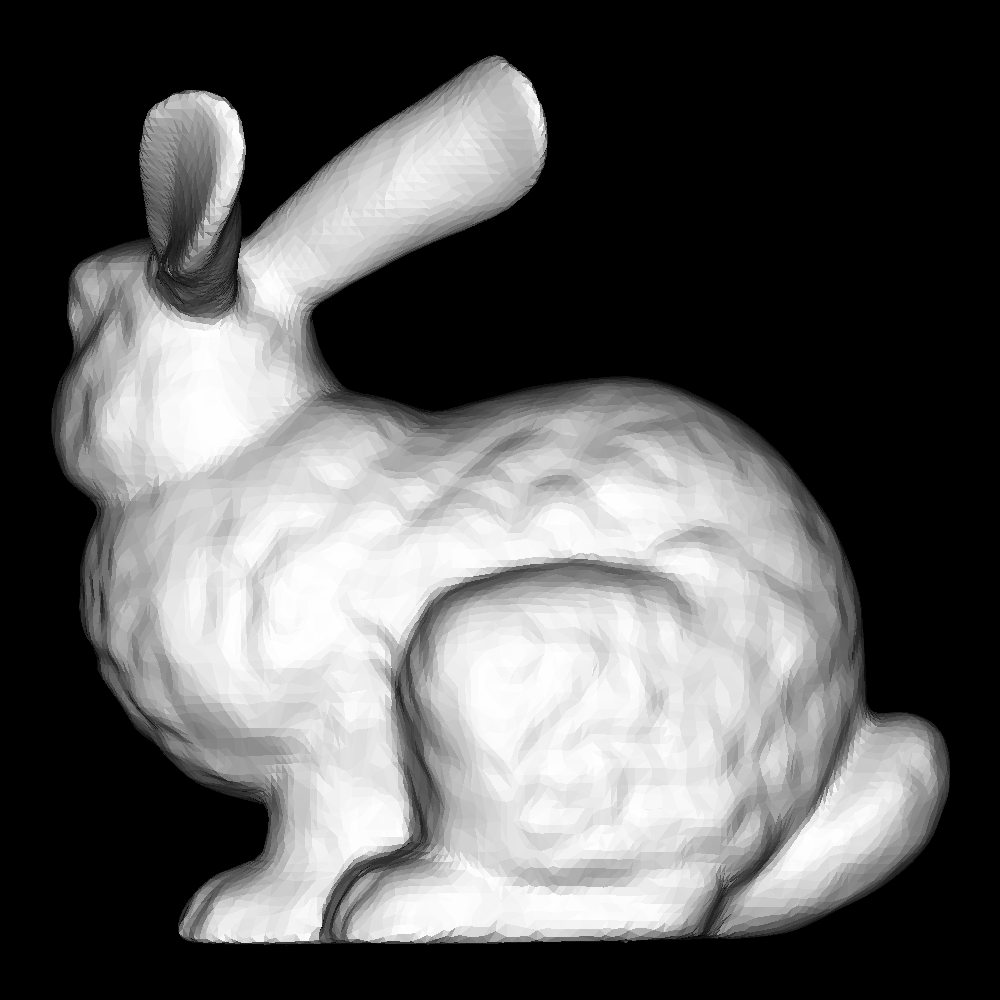
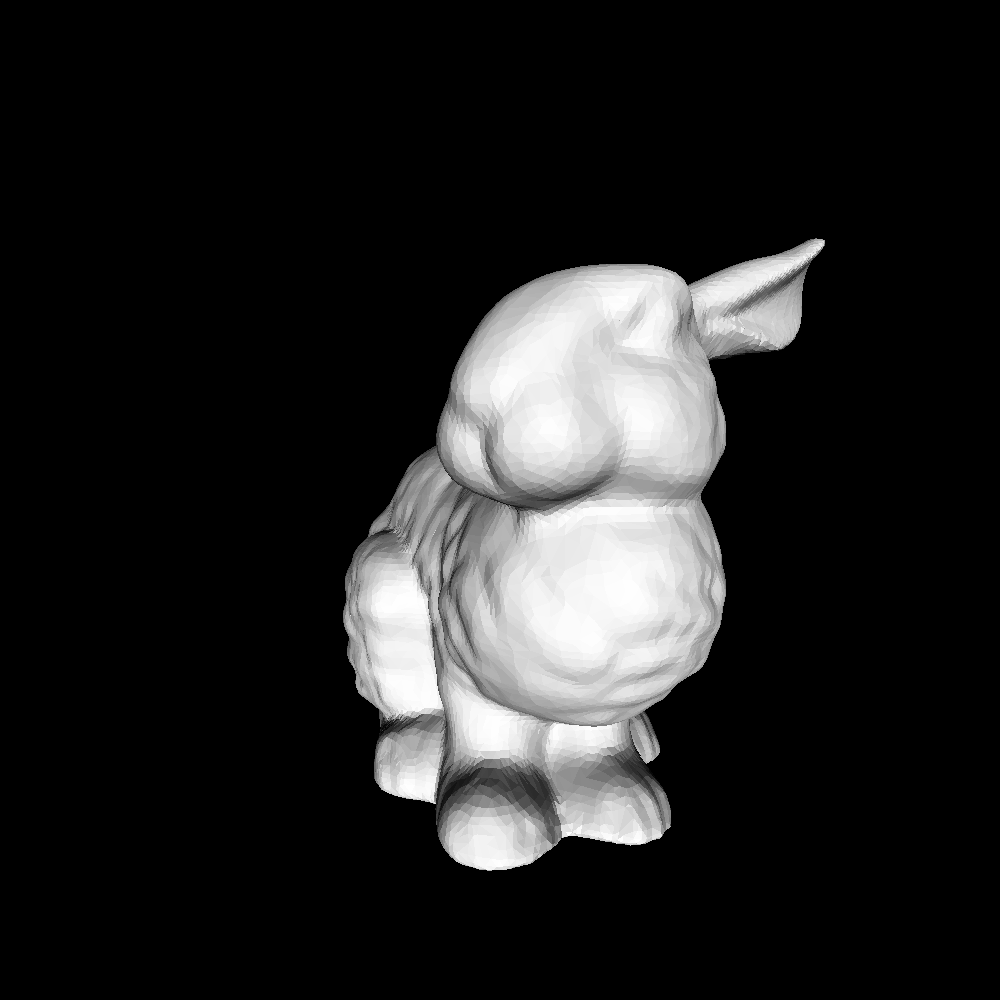
update

diff --git a/task6.py b/task6.py
@@ -1,6 +1,25 @@
 import numpy as np
 from PIL import Image
-import math
+import random as rnd
+
+def normal(c0: tuple, c1: tuple, c2: tuple):
+    x_n = (c1[1] - c2[1]) * (c1[2] - c0[2]) - (c1[1] - c0[1]) * (c1[2] - c2[2])
+    y_n = (c1[2] - c2[2]) * (c1[0] - c0[0]) - (c1[0] - c2[0]) * (c1[2] - c0[2])
+    z_n = (c1[0] - c2[0]) * (c1[1] - c0[1]) - (c1[1] - c2[1]) * (c1[0] - c0[0])
+    
+    return (x_n, y_n, z_n)
+
+def scalar(c_n: tuple):
+    return c_n[2] / (np.sqrt(c_n[0] ** 2  + c_n[1] ** 2 + c_n[2] ** 2))
+    
+
+def bar(x: float, y: float, c0: tuple, c1: tuple, c2: tuple):
+    lambda0 = ((x - c2[0]) * (c1[1] - c2[1]) - (c1[0] - c2[0]) * (y - c2[1])) / ((c0[0] - c2[0]) * (c1[1] - c2[1]) - (c1[0] - c2[0]) * (c0[1] - c2[1]))
+    lambda1 = ((c0[0] - c2[0]) * (y - c2[1]) - (x - c2[0]) * (c0[1] - c2[1])) / ((c0[0] - c2[0]) * (c1[1] - c2[1]) - (c1[0] - c2[0]) * (c0[1] - c2[1]))
+    lambda2 = 1.0 - lambda0 - lambda1
+    
+    return (lambda0, lambda1, lambda2)
+
 
 def parse_obj_complete(path):
     vertices = []
@@ -76,27 +95,52 @@ def draw_all_edges_bresenham(vertices, faces, output_path, image_size=1000):
     center_y = (min_y + max_y) / 2
     offset_x = W // 2 - center_x * scale
     offset_y = H // 2 - center_y * scale
-    
-    drawer = BresenhamDrawer()
-    
-    edge_color = (255, 255, 255)
+    z_buf = np.full((H, W), 1000000, dtype=np.float32)
     
     for face in faces:
         
-        for i in range(len(face)):
-            v1_idx = face[i]
-            v2_idx = face[(i + 1) % len(face)]
-            
-            x1, y1, z1 = vertices[v1_idx]
-            x2, y2, z2 = vertices[v2_idx]
-            
-            img_x1 = x1 * scale + offset_x
-            img_y1 = y1 * scale + offset_y
-            img_x2 = x2 * scale + offset_x
-            img_y2 = y2 * scale + offset_y
-            
-            drawer.bresenham_line(image_array, img_x1, W - img_y1, img_x2, W - img_y2, edge_color)
-    
+        
+        v1_idx = face[0]
+        v2_idx = face[1]
+        v3_idx = face[2]
+        
+        x1, y1, z1 = vertices[v1_idx]
+        x2, y2, z2 = vertices[v2_idx]
+        x3, y3, z3 = vertices[v3_idx]
+        
+        c = scalar(normal((x1, y1, z1), (x2, y2, z2), (x3, y3, z3)))
+        
+        if(c >= 0): continue
+        
+        img_x1 = x1 * scale + offset_x
+        img_y1 = y1 * scale + offset_y
+        img_x2 = x2 * scale + offset_x
+        img_y2 = y2 * scale + offset_y
+        img_x3 = x3 * scale + offset_x
+        img_y3 = y3 * scale + offset_y
+        
+        x_min = min(img_x1, img_x2, img_x3)
+        y_min = min(img_y1, img_y2, img_y3)
+        x_max = max(img_x1, img_x2, img_x3)
+        y_max = max(img_y1, img_y2, img_y3)
+        
+        #if(x_min <0):x_min = 0
+        #if(y_min<0): y_min = 0
+        color = (-255 * c, -255 * c, -255 * c)
+        #color = (rnd.randint(0, 255), rnd.randint(0, 255), rnd.randint(0, 255))
+        
+        
+        for x in range(int(np.floor(x_min)), int(np.ceil(x_max))):
+            for y in range(int(np.floor(y_min)), int(np.ceil(y_max))):
+                cord = bar(x, y, (img_x1, img_y1), (img_x2, img_y2), (img_x3, img_y3))
+                if(cord[0] >= 0 and cord[1] >= 0 and cord[2] >= 0): 
+                    z = cord[0] * z1 + cord[1] * z2 + cord[2] * z3
+                    if (z < z_buf[H - y, x]):
+                        image_array[H - y, x] = color
+                        z_buf[H - y, x] = z
+        
+      
+
     
     
     image = Image.fromarray(image_array, 'RGB')

diff --git a/lab2.py b/lab2.py
@@ -1,6 +1,22 @@
 import numpy as np
 from PIL import Image
 
+def spin(coord, alpha, beta, gama, tx, ty, tz):
+    R = np.matmul(np.array([[1, 0, 0], 
+             [0, np.cos(alpha), np.sin(alpha)], 
+             [0, -np.sin(alpha), np.cos(alpha)]]),
+    np.array([[np.cos(beta), 0, np.sin(beta)], 
+             [0, 1, 0], 
+             [-np.sin(beta), 0, np.cos(beta)]]),
+    np.array([[np.cos(gama), np.sin(gama), 0], 
+             [-np.sin(gama), np.cos(gama), 0], 
+             [0, 0, 1]]))
+    ress = []
+    for i in coord:
+        c = np.matmul(np.array([i[0] - tx, i[1] - ty, i[2]]), R) + np.array([0, 0, tz])
+        ress.append([float(c[0]), float(c[1]), float(c[2])])
+    return ress
+
 def normal(c0: tuple, c1: tuple, c2: tuple):
     x_n = (c1[1] - c2[1]) * (c1[2] - c0[2]) - (c1[1] - c0[1]) * (c1[2] - c2[2])
     y_n = (c1[2] - c2[2]) * (c1[0] - c0[0]) - (c1[0] - c2[0]) * (c1[2] - c0[2])
@@ -58,15 +74,17 @@ def draw_picture(vertices, faces, output_path, image_size=1000):
     model_width = max_x - min_x
     model_height = max_y - min_y
     
-    scale_x = (W * 0.9) / max(model_width, 0.001)
-    scale_y = (H * 0.9) / max(model_height, 0.001)
-    scale = min(scale_x, scale_y)
+    scale_x = (W * 0.5) / max(model_width, 0.001)
+    scale_y = (H * 0.5) / max(model_height, 0.001)
     
+    scale = min(scale_x, scale_y) * 0.1
     center_x = (min_x + max_x) / 2
     center_y = (min_y + max_y) / 2
-    offset_x = W // 2 - center_x * scale
-    offset_y = H // 2 - center_y * scale
+    offset_x = W // 2 
+    offset_y = H // 2 
     z_buf = np.full((H, W), 1000000, dtype=np.float32)
+    
+    vertices = spin(vertices, 0, 90, 0, center_x, center_y, 0.1)
     
     for face in faces:
         
@@ -83,12 +101,12 @@ def draw_picture(vertices, faces, output_path, image_size=1000):
         
         if(c >= 0): continue
         
-        img_x1 = x1 * scale + offset_x
-        img_y1 = y1 * scale + offset_y
-        img_x2 = x2 * scale + offset_x
-        img_y2 = y2 * scale + offset_y
-        img_x3 = x3 * scale + offset_x
-        img_y3 = y3 * scale + offset_y
+        img_x1 = x1 * scale / z1 + offset_x
+        img_y1 = y1 * scale / z1 + offset_y
+        img_x2 = x2 * scale / z2 + offset_x
+        img_y2 = y2 * scale / z2 + offset_y
+        img_x3 = x3 * scale / z3 + offset_x
+        img_y3 = y3 * scale / z3 + offset_y
         
         x_min = min(img_x1, img_x2, img_x3)
         y_min = min(img_y1, img_y2, img_y3)
@@ -102,9 +120,12 @@ def draw_picture(vertices, faces, output_path, image_size=1000):
                 cord = bar(x, y, (img_x1, img_y1), (img_x2, img_y2), (img_x3, img_y3))
                 if(cord[0] >= 0 and cord[1] >= 0 and cord[2] >= 0): 
                     z = cord[0] * z1 + cord[1] * z2 + cord[2] * z3
-                    if (z < z_buf[H - y, x]):
-                        image_array[H - y, x] = color
-                        z_buf[H - y, x] = z
+                    try:
+                        if (z < z_buf[H - y, x]):
+                            image_array[H - y, x] = color
+                            z_buf[H - y, x] = z
+                    except:
+                        continue
         
       
     
